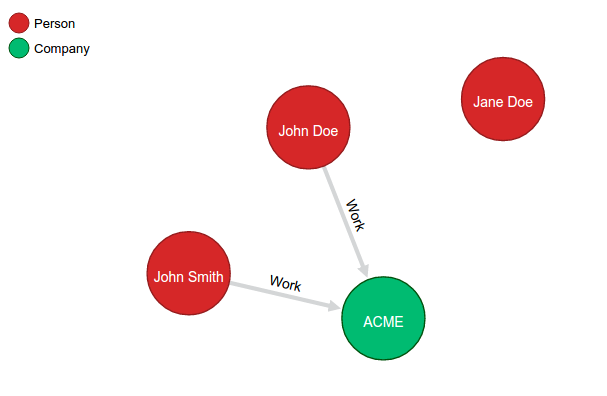
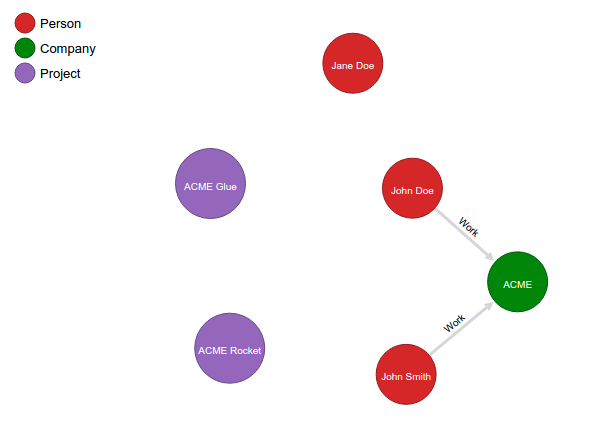
updated libraries version, typo, updated README and screenshot

diff --git a/README.md b/README.md
@@ -13,11 +13,12 @@ This repo contains a script for starting to use OrientDB with Scala language.
 There's only one Scala file that contains the basic steps for interacting with an OrientDB database.
 The steps are:
 * creating/accessing a database
-* create (if needed) two new classes that extends V: Person and Company
-* create (if needed) a new classes that extends E: Work
+* create (if needed) three new classes that extends V: Person, Company and Project
+* create (if needed) a new class that extends E: Work
 * cleans up (if needed) all the data already present
-* creates four vertices
-* creates two edges
+* creates several vertices
+* creates some edges
+* creates a LinkSet
 * executes a query and displays the results
  
 *Disclaimer*:
